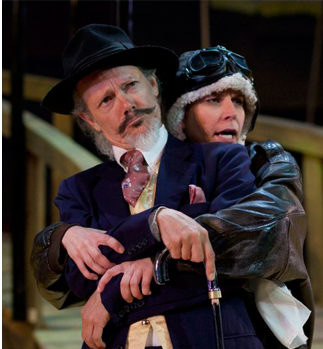
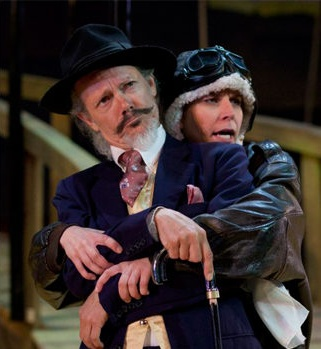
Changed initial carousel images. Fixed additional image crops.

diff --git a/index.html b/index.html
@@ -84,10 +84,10 @@
       animation: carouselFade 20s infinite;
     }
 
-    .carousel-image:nth-child(1) { animation-delay: 0s; }
-    .carousel-image:nth-child(2) { animation-delay: 5s; }
-    .carousel-image:nth-child(3) { animation-delay: 10s; }
-    .carousel-image:nth-child(4) { animation-delay: 15s; }
+    .carousel-image:nth-child(1) { animation-delay: 2s; }
+    .carousel-image:nth-child(2) { animation-delay: 7s; }
+    .carousel-image:nth-child(3) { animation-delay: 12s; }
+    .carousel-image:nth-child(4) { animation-delay: 17s; }
 
     @keyframes carouselFade {
       0% { opacity: 0; }
@@ -334,10 +334,10 @@
   <!-- ── Hero with Carousel Background ─────────────── -->
   <section class="hero" id="home">
     <div class="hero-carousel">
-      <div class="carousel-image" style="background-image: url('images/lucia-di-lammermoor/DSC03307.jpg');"></div>
-      <div class="carousel-image" style="background-image: url('images/king-lear/SD-115A-KING-LEAR.jpg');"></div>
-      <div class="carousel-image" style="background-image: url('images/much-ado-about-nothing/SD-363-MUCH-ADO.jpg');"></div>
-      <div class="carousel-image" style="background-image: url('images/midsummer-ut-austin/UT-Midsummer-604.jpg');"></div>
+      <div class="carousel-image" style="background-image: url('images/lucia-di-lammermoor/DSC03329-scaled.jpg');"></div>
+      <div class="carousel-image" style="background-image: url('images/midsummer-ut-austin/UT-Midsummer-381.jpg');"></div>
+      <div class="carousel-image" style="background-image: url('images/loves-labors-lost/Loves-Labour-Ladies-Swimsuits.jpg');"></div>
+      <div class="carousel-image" style="background-image: url('images/much-ado-about-nothing/SD-097-MUCH-ADO.jpg');"></div>
     </div>
     <h1>Jen J Madison</h1>
     <p class="subtitle">Costume Designer</p>
